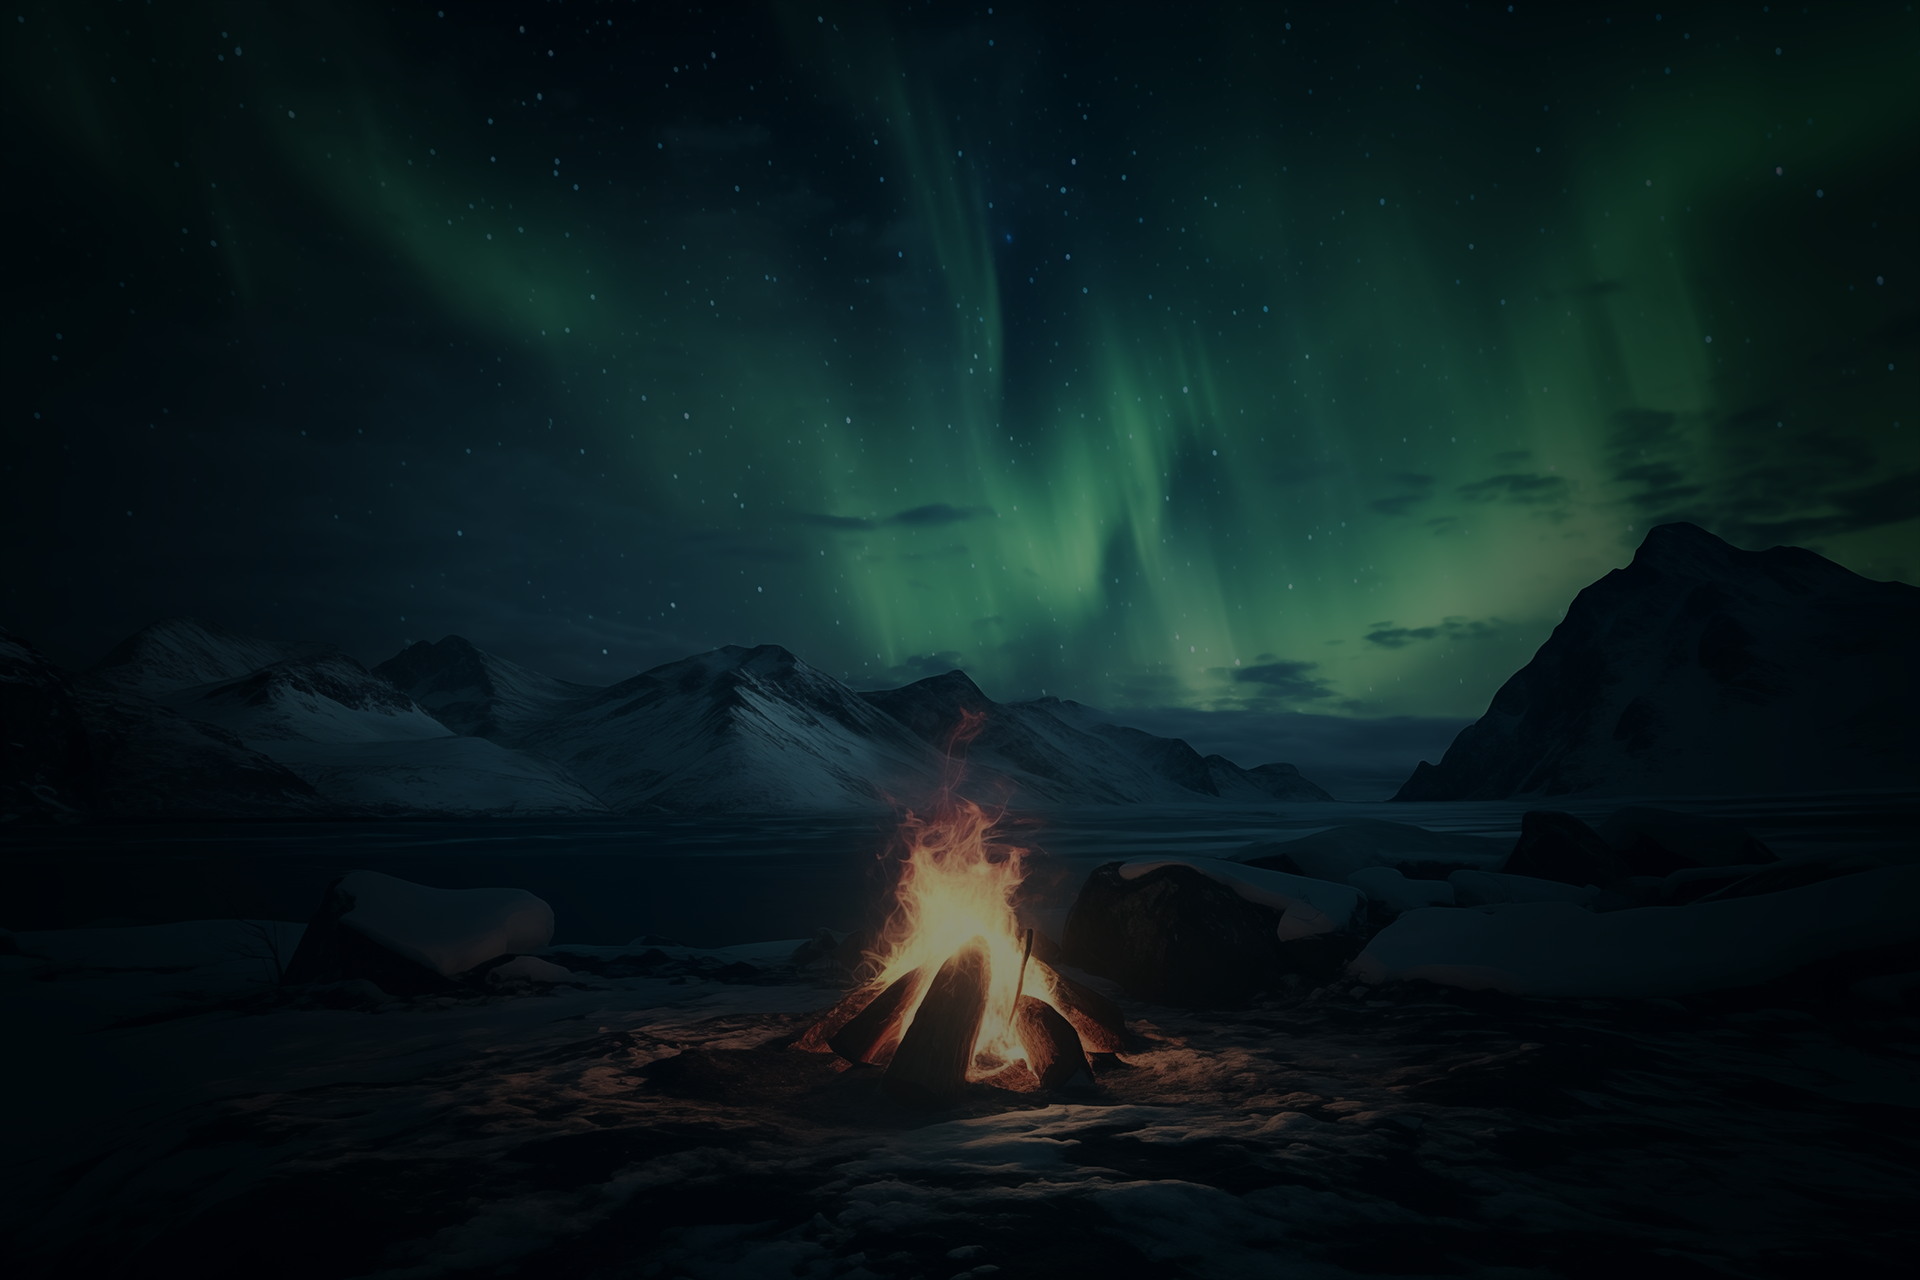
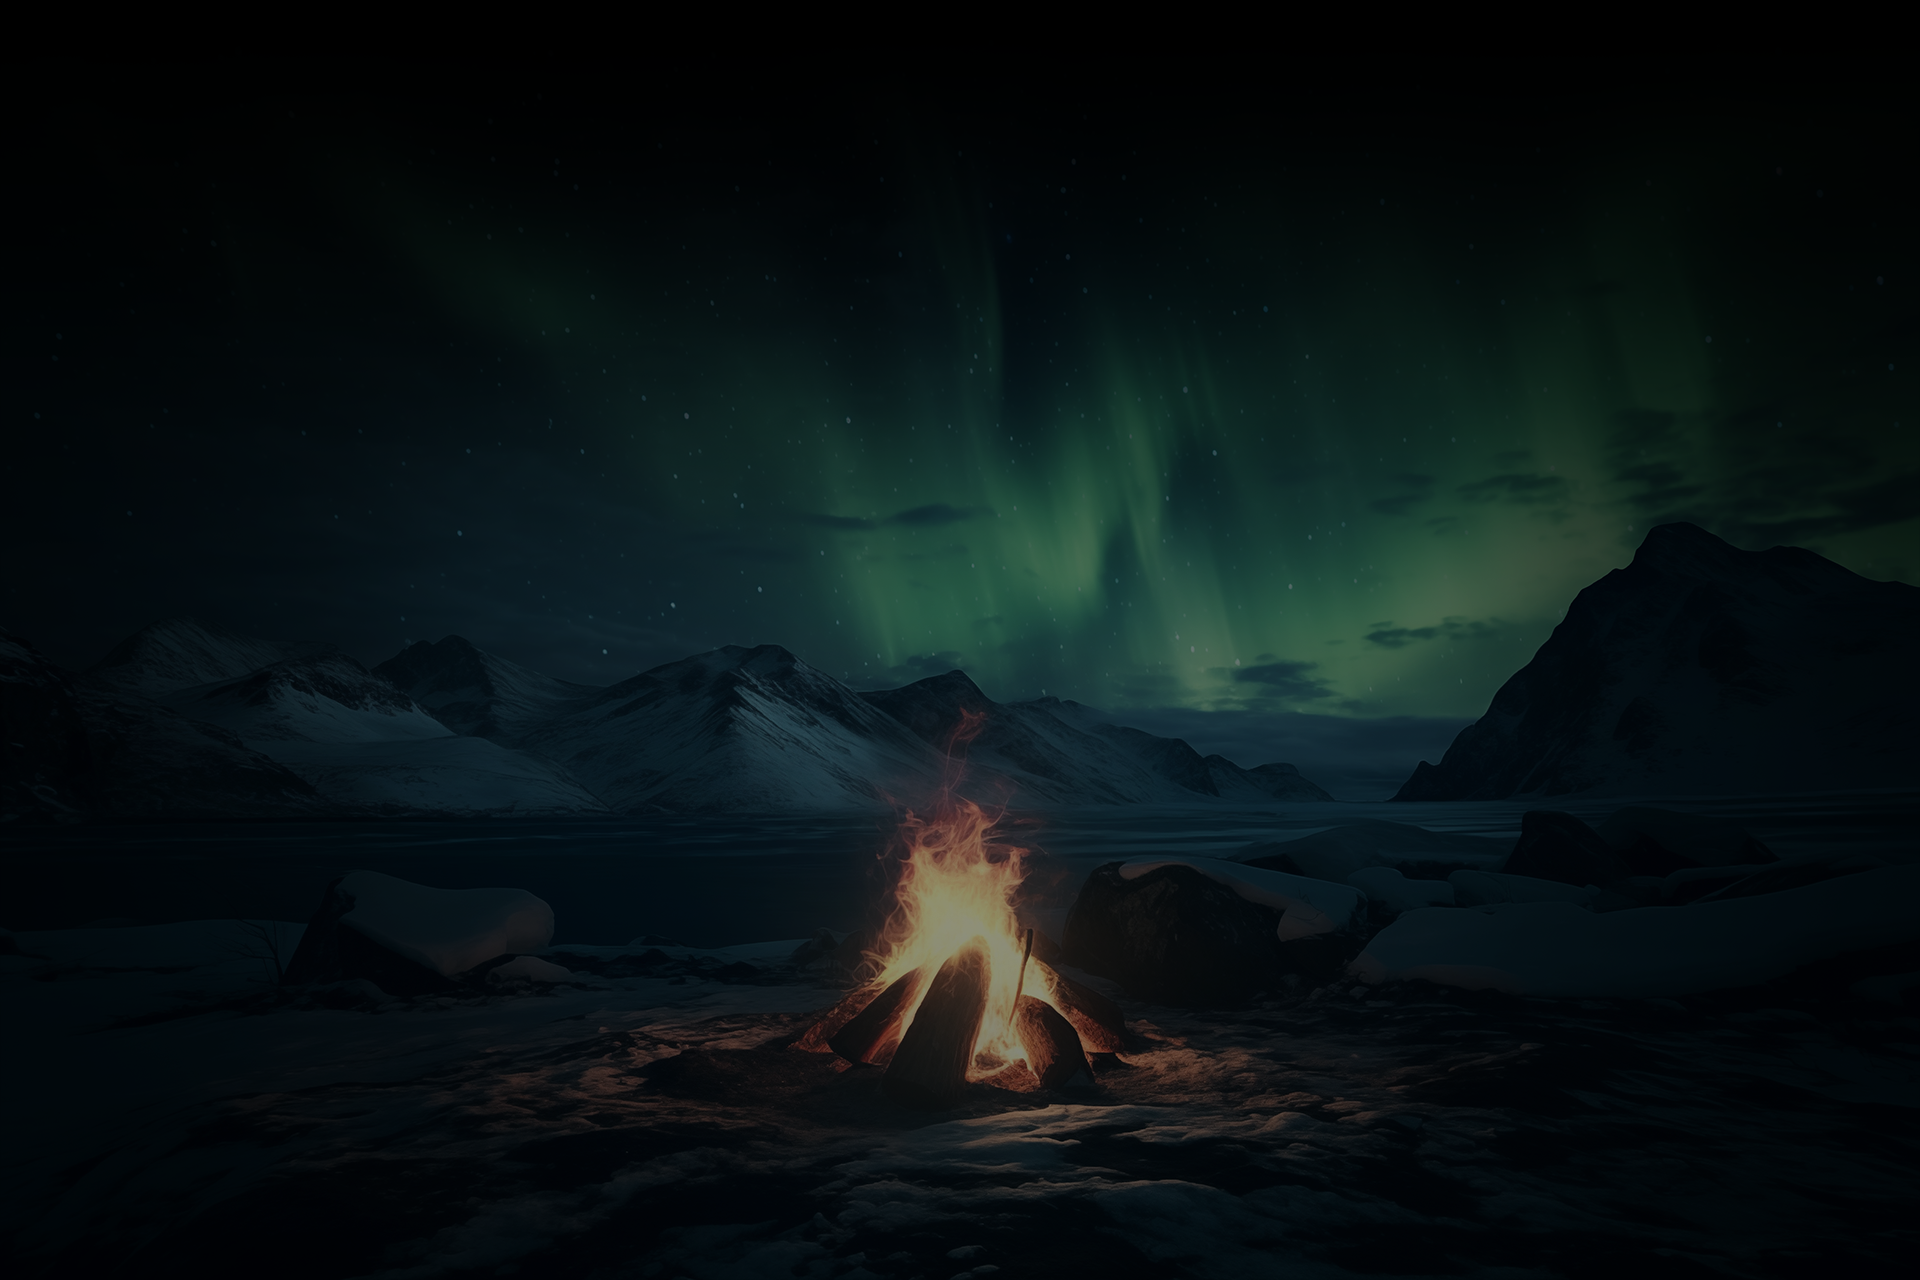
replaced assets

Changed region(s): [[0.1562, 0.0, 0.9688, 0.4688], [0.3438, 0.0938, 0.4062, 0.125]]

diff --git a/src/containers/Apps/Apps.jsx b/src/containers/Apps/Apps.jsx
@@ -1,6 +1,6 @@
 import React from 'react';
 import './apps.css';
-import helm_flame from '../../assets/helm_flame.png'
+import helm_flame from '../../assets/helm_flame2.png'
 import envisage_flame from '../../assets/envisage_flame.png'
 import attune_flame from '../../assets/attune_flame.png'
 import reverie_flame from '../../assets/reverie_flame.png'

diff --git a/src/components/Blog/blog.css b/src/components/Blog/blog.css
@@ -173,7 +173,7 @@ option.korean::after {
   background-color: transparent;
   border: none;
   font-size: 16px;
-  padding: 8px 30px 8px 10px;
+  padding: 8px 40px 8px 10px;
   cursor: pointer;
   background-image: url('../../assets/down_arrow.png');
   background-repeat: no-repeat;
